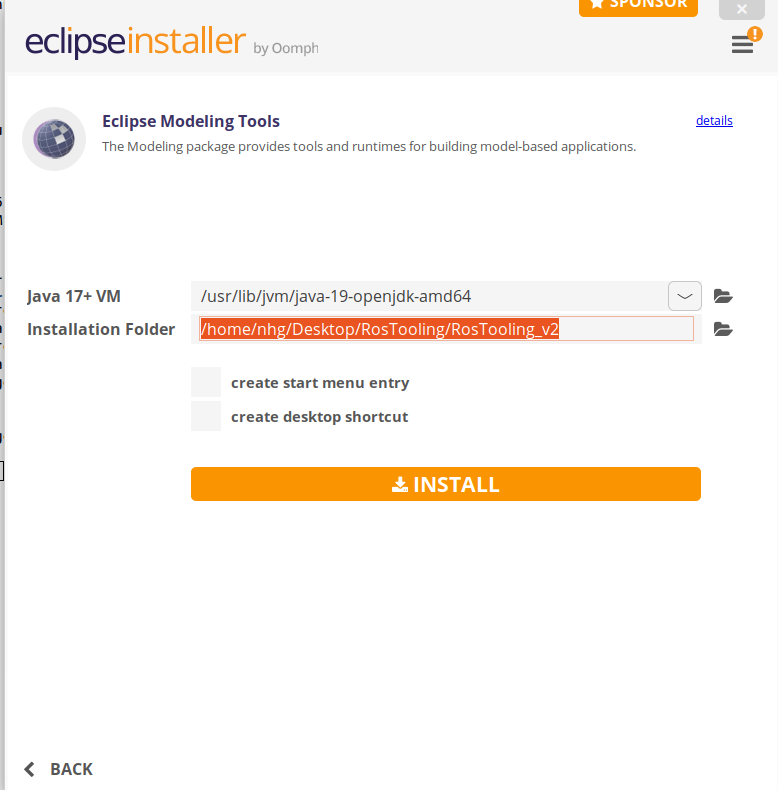
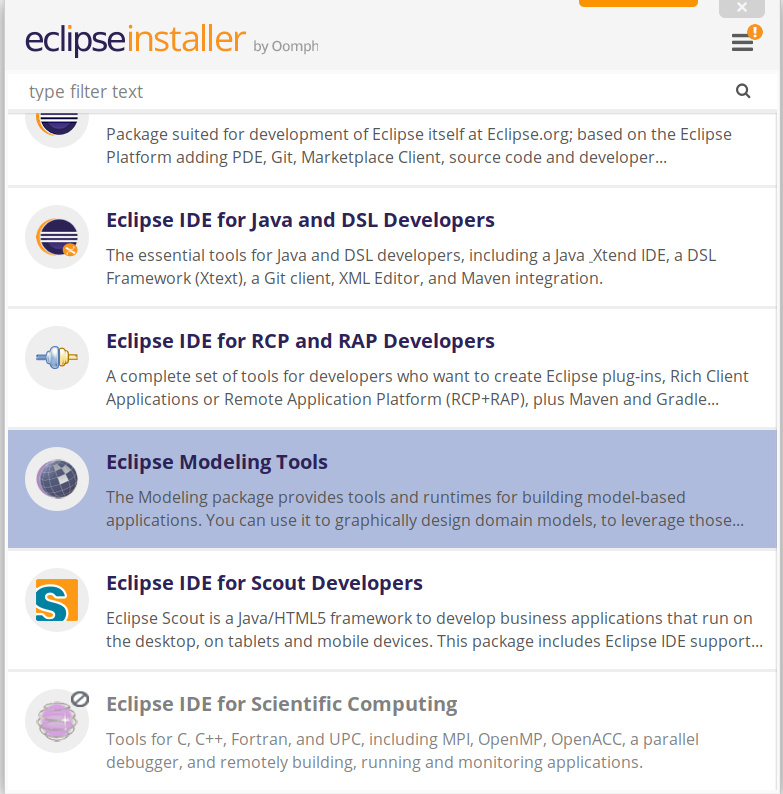
minimal update of the installation instructions

diff --git a/docu/Installation.md b/docu/Installation.md
@@ -8,7 +8,9 @@ First, the Java environment has to be set. For Linux it can be installed with th
 sudo apt-get install openjdk-19-jre
 ```
 
-Then Eclipse can be installed. Please download the installer from the official Eclipse [website](https://www.eclipse.org/downloads/packages/installer). Once you start the installer, select the package "Eclipse Modeling Tools".
+Then Eclipse can be installed. Please download the installer from the official Eclipse [website](https://www.eclipse.org/downloads/packages/installer). After unpacking the downloaded file, the installer can be run by calling the command *./eclipse-inst* from the console. 
+
+Once you start the installer, select the package "Eclipse Modeling Tools". You can find it just by scrolling or using the searching tool:
 
 ![alt text](images/install_eclipse_modeling.png)
 
